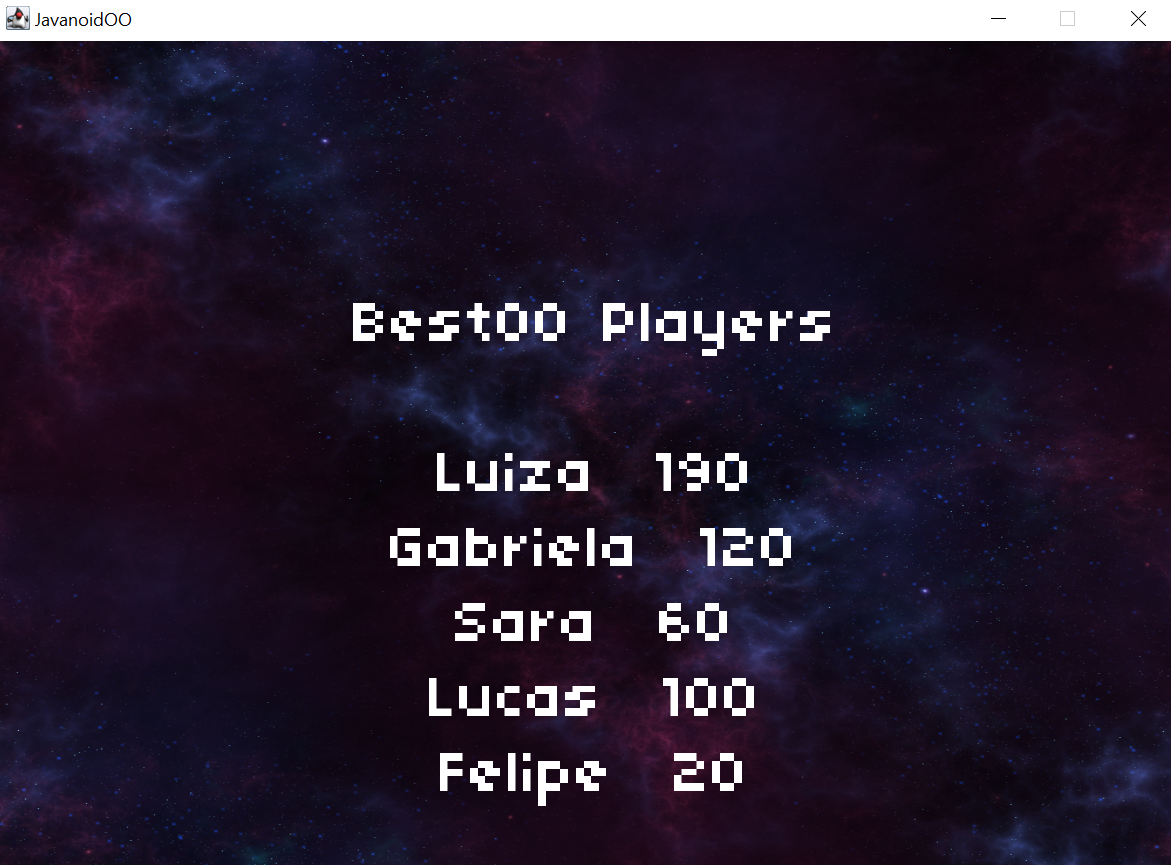
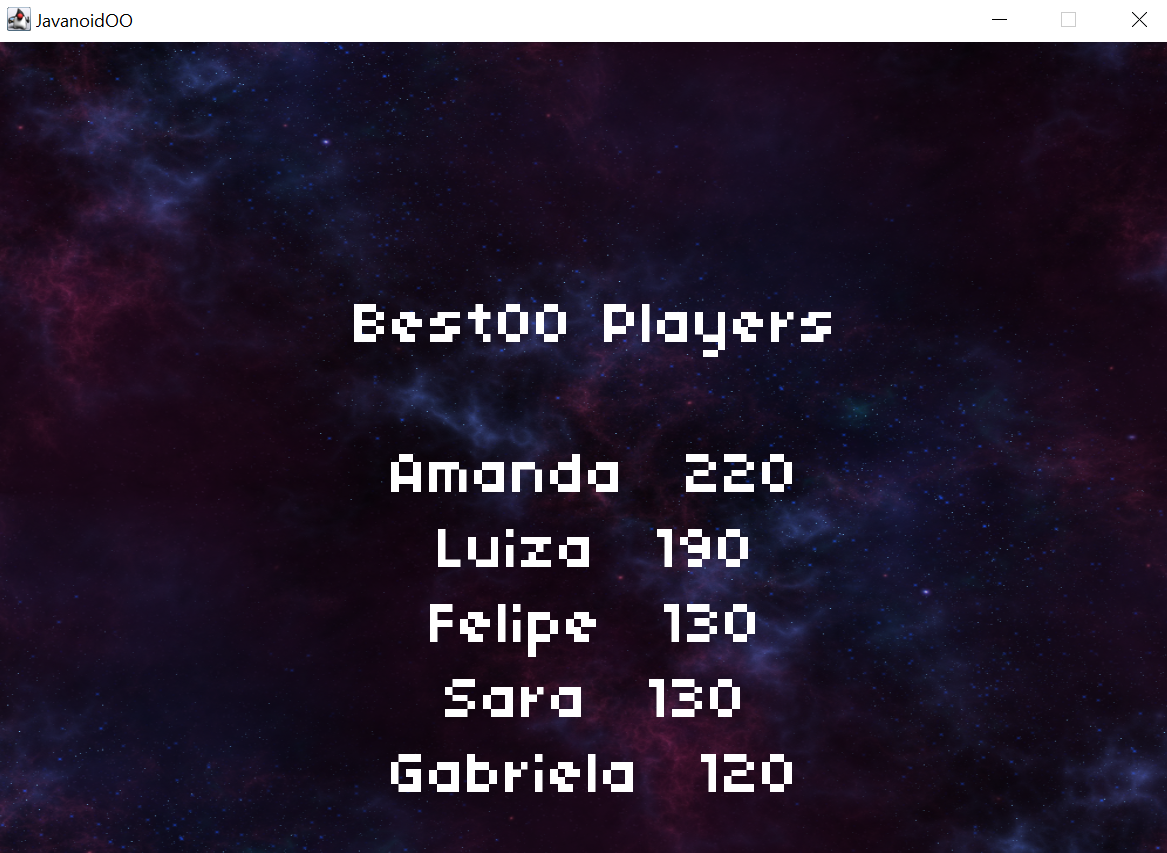
atualizando ordenamento de melhores pontuações

diff --git a/app/src/main/java/engtelecom/poo/areas/AreaPainel.java b/app/src/main/java/engtelecom/poo/areas/AreaPainel.java
@@ -164,38 +164,53 @@ public class AreaPainel extends Area {
     }
 
     /**
-     * Atualiza arquivo com a listagem de melhores jogadores.
+     * Adiciona o jogador atual à lista de melhores jogadores se sua pontuação
+     * for maior do que pelo menos um jogador existente.
      * 
-     * @param nome Nome do jogador atual.
+     * @param nome O nome do jogador atual.
      */
     private void atualizaMelhoresJogadores(String nome) {
         String jogadorAtual = nome;
         int pontuacaoAtual = AreaPlacar.fatorPontuacao;
 
-        ArrayList<String> jogadores = new ArrayList<>(this.melhoresJogadores);
-        ArrayList<Integer> pontuacoes = new ArrayList<>(this.melhoresPontuacoes);
+        // adiciona o jogador atual às listas
+        melhoresJogadores.add(jogadorAtual);
+        melhoresPontuacoes.add(pontuacaoAtual);
 
-        // verifica se o jogador atual entra na lista
-        for (int i = 0; i < this.melhoresJogadores.size(); i++) {
-            if (pontuacaoAtual >= pontuacoes.get(i)) {
-                pontuacoes.add(i, pontuacaoAtual);
-                jogadores.add(i, jogadorAtual);
+        // ordena as listas em ordem decrescente de pontuação
+        ordenarMelhoresJogadores();
 
-                // remove o último elemento se a lista ficar maior que 5
-                if (pontuacoes.size() > 5) {
-                    pontuacoes.remove(5);
-                    jogadores.remove(5);
-                }
-                break; // já adicionou o novo melhor jogador
-            }
+        // Remove o último elemento se a lista ficar maior que 5
+        if (melhoresJogadores.size() > 5) {
+            melhoresJogadores.remove(5);
+            melhoresPontuacoes.remove(5);
         }
 
-        // atualiza a lista de melhores jogadores e pontuações
-        this.melhoresJogadores = jogadores;
-        this.melhoresPontuacoes = pontuacoes;
-
-        // salva as listas em um arquivo
+        // atualiza o arquivo
         salvarMelhoresEmArquivo("melhoresJogadores.csv");
+    }
+
+    /**
+     * Ordena as listas de melhores jogadores em ordem decrescente com base na
+     * pontuação.
+     */
+    private void ordenarMelhoresJogadores() {
+        for (int i = 1; i < melhoresPontuacoes.size(); i++) {
+            int pontuacaoAtual = melhoresPontuacoes.get(i);
+            String jogadorAtual = melhoresJogadores.get(i);
+            int j = i - 1;
+
+            // Move os elementos maiores para a direita
+            while (j >= 0 && melhoresPontuacoes.get(j) < pontuacaoAtual) {
+                melhoresPontuacoes.set(j + 1, melhoresPontuacoes.get(j));
+                melhoresJogadores.set(j + 1, melhoresJogadores.get(j));
+                j--;
+            }
+
+            // Insere o jogador atual na posição correta
+            melhoresPontuacoes.set(j + 1, pontuacaoAtual);
+            melhoresJogadores.set(j + 1, jogadorAtual);
+        }
     }
 
     /**

diff --git a/readme.md b/readme.md
@@ -290,11 +290,12 @@ class AreaPlacar {
         + desenharArea(g2d: Graphics2D)  void
         + receberNome() String
         - desenharMelhoresJogadores(g2d: Graphics2D) void
-        - atualizaMelhoresJogadores(nome: String) void
-        - salvarMelhoresEmArquivo(nomeArquivo: String) void
+        - atualizaMelhoresJogadores(n: String) void
+        - salvarMelhoresEmArquivo(n: String) void
         + novaMelhorPontuacao() boolean
-        - ler(nomeDoArquivo: String) void
-        - criarArquivo(nomeDoArquivo: String) void
+        - ordenarMelhoresJogadores(n: String) void
+        - ler(n: String) void
+        - criarArquivo(n: String) void
     }
 
 class AreaJogo {
